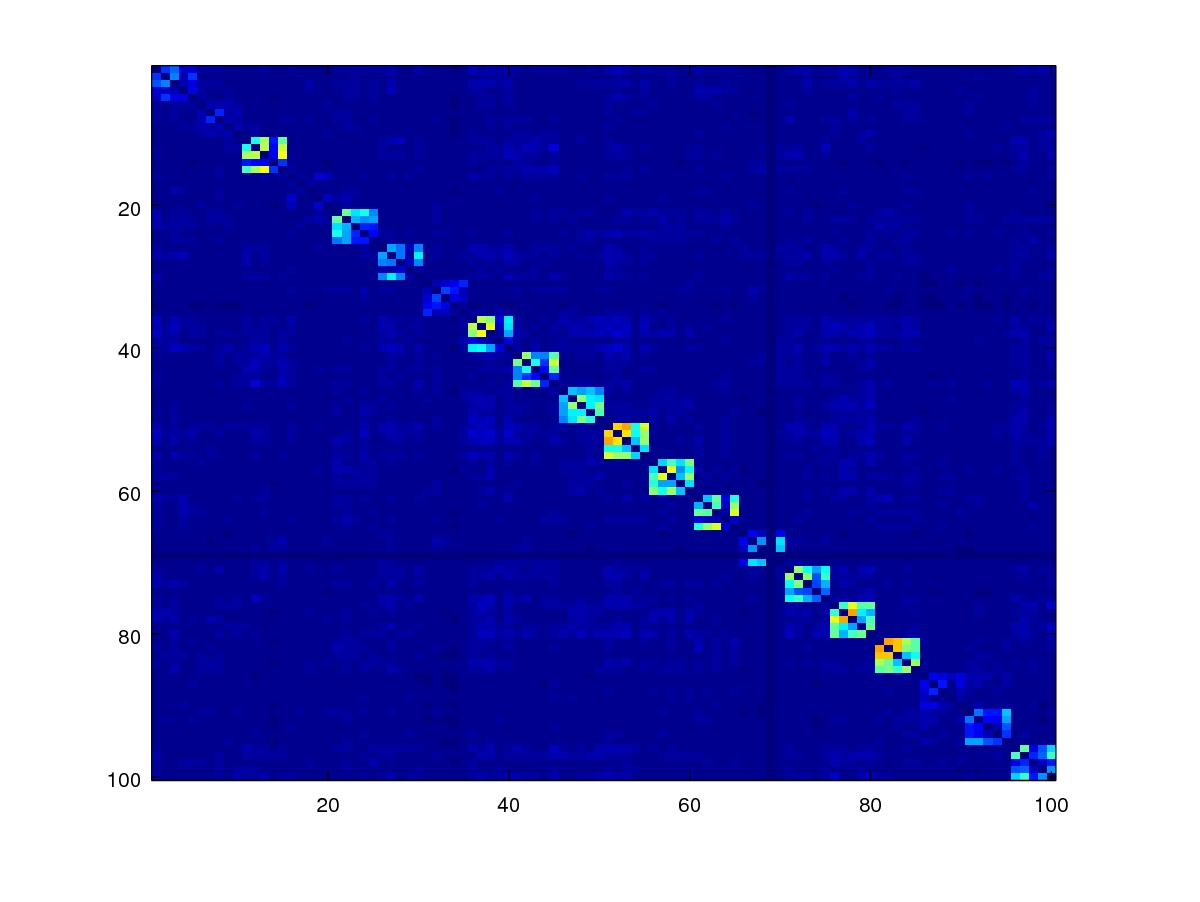
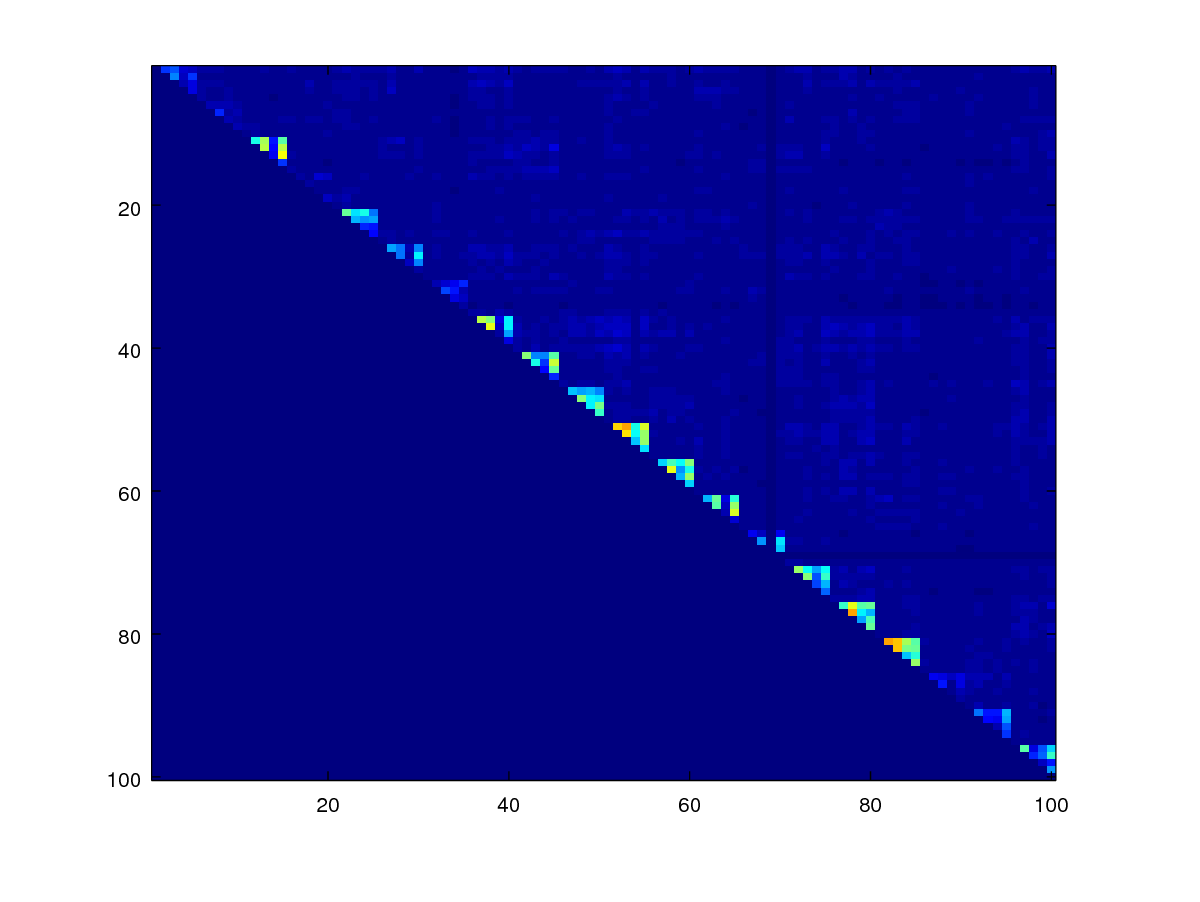
regenerated files on 2018-01-03

diff --git a/blog/2017/12/29/generate-pairwise-fprint-scores.html b/blog/2017/12/29/generate-pairwise-fprint-scores.html
@@ -153,13 +153,16 @@
 <ul>
   <li>a fingerprint database. Download the <a href="http://livdet.org">LivDET 2011 database</a>.</li>
   <li>the <a href="https://www.nist.gov/services-resources/software/nist-biometric-image-software-nbis">NIST Biometric Image Software (NBIS)</a></li>
-  <li>In my setup, I have a host Windows machine and run Ubuntu 16.04 using VMWare. If you use this setup, you should read <a href="/blog/2017/12/29/vmware-tools-update.html">my previous post</a> which sets up the environment correctly.</li>
+  <li>In my setup, I have a host Windows machine and run Ubuntu 16.04 using VMWare. If you use this setup, you should read <a href="/blog/2017/12/29/vmware-tools-update.html">my previous post</a> which sets up the environment correctly. You can, of course, use VirtualBox to achieve the same result; or even mix the two, e.g., create VMWare image and then run it in VirtualBox.</li>
   <li>For performance, you should get the git clone the <code>wer</code> function using <code>git clone git@gitlab.com:normanpoh/DETconf_octave.git</code> or else visit <a href="https://gitlab.com/normanpoh/DETconf_octave">this link</a>.</li>
 </ul>
 
 <p>Once you have fulfilled the above requirements, you can then follow the instructions set out below.</p>
 
 <p>I will be using a combination of bash and Octave scripts in order to plot the performance curves. Once you understand how this works, you can, of course, use different biometric software and modalities.</p>
+
+<h3 id="intended-audience">Intended audience</h3>
+<p>I have written this tutorial for researchers who are interested to start working in biometrics but are not fully confident with using <code>bash</code> and <code>Octave</code> or <code>Matlab</code>. With this in mind, every step has been carefully written so that they can follow, whilst learning the strengths or features that the scripts can offer.</p>
 
 <h3 id="procedure">Procedure</h3>
 <p>We shall use a publicly available fingerprint database to illustrate how you can use NIST’s fingerprint matching <code>bozorth3</code> to generate an exhaustive pair-wise comparison score matrix.</p>
@@ -175,14 +178,23 @@
 
 <figure class="highlight"><pre><code class="language-bash" data-lang="bash"><span class="c1"># In bash:</span>
 
-<span class="c1"># Set the input file directory where all the fingerprint images are stored</span>
+<span class="c1"># Set the input file directory where all the fingerprint images in .png format are stored. In my case, they are stored in; yours will certainly be different</span>
 <span class="nv">fdir</span><span class="o">=</span>/mnt/hgfs/C/Users/np0004/Documents/LivDET/data/2011/TrainingItaldataLive
 
 <span class="c1"># Set the output directory where features are stored</span>
-<span class="nv">outdir</span><span class="o">=</span>features</code></pre></figure>
+<span class="nv">outdir</span><span class="o">=</span>features
+
+<span class="c1"># Set the file list variable</span>
+<span class="nv">flist</span><span class="o">=</span>filelist.txt
+
+<span class="c1"># List all the files and store them in $file</span>
+ls <span class="nv">$fd</span>ir &gt; filelist.txt <span class="c1">#List all the files</span>
+
+<span class="c1"># Create the output directory</span>
+mkdir $outdir</code></pre></figure>
 
 <h5 id="extract-the-features">2.Extract the features</h5>
-<p>To extract the features, below I assume that the fingerprint images are stored in <code>.png</code> format; so the command <code>convert</code> is used.</p>
+<p>To extract the features, below I assume that the fingerprint images are stored in <code>.png</code> format; so the command <code>convert</code> is used to convert the images to <code>.wsq</code>. The code below simply loops through all the files and extract the fingerprint features using NIST’s <code>mindtct</code> program.</p>
 
 <figure class="highlight"><pre><code class="language-bash" data-lang="bash"><span class="c1"># In bash:</span>
 <span class="nv">c</span><span class="o">=</span>0
@@ -196,7 +208,7 @@
   mindtct out.wsq $outdir/<span class="nv">$f</span>name
 <span class="k">done</span></code></pre></figure>
 
-<p>All the features are now can be found in the directory <code>$outdir</code> (i.e., <code>features</code> in the example above).</p>
+<p>All the features can now be found in the directory <code>$outdir</code> (i.e., <code>features</code> in the example above).</p>
 
 <p>To check the output, type <code>ls features/*.xyt | head</code>. The database contains <code>&lt;user-id&gt;_&lt;attempt-id&gt;.png</code>; so the processed output contains <code>&lt;finger-id&gt;_&lt;attempt-id&gt;.xyt</code>. There are 200 unique fingers and for each finger, there are 5 attempts; so thare are a total of 1000 fingerprint images.</p>
 
@@ -228,29 +240,37 @@ features/101_5.xyt</code></pre></figure>
 <span class="n">cellfun</span><span class="p">(@(</span><span class="n">x</span><span class="p">)</span> <span class="n">fprintf</span><span class="p">(</span><span class="n">fid</span><span class="p">,</span> <span class="s">&#39;%s\n&#39;</span><span class="p">,</span> <span class="n">x</span><span class="p">),</span> <span class="n">fname</span><span class="p">);</span>
 <span class="n">fclose</span><span class="p">(</span><span class="n">fid</span><span class="p">);</span></code></pre></figure>
 
-<p>Let’s write two functions to get the user and session indices, respectively.</p>
+<p>Let’s write two functions to get the user and session indices, respectively. These 2 pieces of information are often needed in order to extract genuine and impostor scores as will become clear later.</p>
+
+<p>In order to extract the information, I have chosen to achieve this by processing the filenames in order to illustrate how you can use text processing in Octave. In practice, you should modify the scripts to suite your needs.</p>
+
+<p>Recall that each role in the <code>filelist_xyt.txt</code> has the following format: <code>features/</code><user-id>`_`<attempt-id>`.xyt`, e.g., `features/100_1.xyt` so to extract the user (unique finger) id, we split the string into two parts by '/' to get the second part `100_1.xyt` and then furtther split this string by `_` to get to the first part of the string, i.e., `100`.</attempt-id></user-id></p>
 
 <figure class="highlight"><pre><code class="language-matlab" data-lang="matlab"><span class="c">%% Let&#39;s process the user</span>
 <span class="k">function</span><span class="w"> </span>out <span class="p">=</span><span class="w"> </span><span class="nf">get_user</span><span class="p">(</span>x<span class="p">)</span><span class="w"></span>
 <span class="w">  </span><span class="n">out_</span> <span class="p">=</span> <span class="n">strsplit</span><span class="p">(</span><span class="n">x</span><span class="p">,</span> <span class="s">&#39;/&#39;</span><span class="p">);</span>
   <span class="n">out_</span> <span class="p">=</span> <span class="n">strsplit</span><span class="p">(</span><span class="n">out_</span><span class="p">{</span><span class="mi">2</span><span class="p">},</span> <span class="s">&#39;_&#39;</span><span class="p">);</span>
   <span class="n">out</span> <span class="p">=</span> <span class="n">str2double</span><span class="p">(</span><span class="n">out_</span><span class="p">{</span><span class="mi">1</span><span class="p">});</span>
-<span class="n">endfunction</span>
+<span class="n">endfunction</span></code></pre></figure>
 
+<p>Using the same methodology, we create the <code>get_session</code> function.</p>
 
-<span class="k">function</span><span class="w"> </span>out <span class="p">=</span><span class="w"> </span><span class="nf">get_session</span><span class="p">(</span>x<span class="p">)</span><span class="w"></span>
+<figure class="highlight"><pre><code class="language-matlab" data-lang="matlab"><span class="k">function</span><span class="w"> </span>out <span class="p">=</span><span class="w"> </span><span class="nf">get_session</span><span class="p">(</span>x<span class="p">)</span><span class="w"></span>
 <span class="w">  </span><span class="n">out_</span> <span class="p">=</span> <span class="n">strsplit</span><span class="p">(</span><span class="n">x</span><span class="p">,</span> <span class="s">&#39;/&#39;</span><span class="p">);</span>
   <span class="n">out_</span> <span class="p">=</span> <span class="n">strsplit</span><span class="p">(</span><span class="n">out_</span><span class="p">{</span><span class="mi">2</span><span class="p">},</span> <span class="s">&#39;_&#39;</span><span class="p">);</span>
+  <span class="n">out_</span> <span class="p">=</span> <span class="n">strsplit</span><span class="p">(</span><span class="n">out_</span><span class="p">{</span><span class="mi">2</span><span class="p">},</span> <span class="s">&#39;.&#39;</span><span class="p">);</span>
   <span class="n">out</span> <span class="p">=</span> <span class="n">str2double</span><span class="p">(</span><span class="n">out_</span><span class="p">{</span><span class="mi">2</span><span class="p">});</span>
-<span class="n">endfunction</span>
+<span class="n">endfunction</span></code></pre></figure>
 
-<span class="c">% Try this</span>
-<span class="k">for</span> <span class="nb">i</span><span class="p">=</span><span class="mi">1</span><span class="p">:</span><span class="nb">numel</span><span class="p">(</span><span class="n">fname</span><span class="p">)</span>
+<p>Here’s how you apply the function.</p>
+
+<figure class="highlight"><pre><code class="language-matlab" data-lang="matlab"><span class="k">for</span> <span class="nb">i</span><span class="p">=</span><span class="mi">1</span><span class="p">:</span><span class="nb">numel</span><span class="p">(</span><span class="n">fname</span><span class="p">)</span>
   <span class="n">user</span><span class="p">(</span><span class="nb">i</span><span class="p">)</span> <span class="p">=</span> <span class="n">get_user</span><span class="p">(</span><span class="n">fname</span><span class="p">{</span><span class="nb">i</span><span class="p">})</span>
-<span class="k">end</span>
+<span class="k">end</span></code></pre></figure>
 
-<span class="c">%or use cellfun to do the same</span>
-<span class="n">user</span> <span class="p">=</span> <span class="n">cellfun</span><span class="p">(</span> <span class="p">@(</span><span class="n">x</span><span class="p">)</span> <span class="n">get_user</span><span class="p">(</span><span class="n">x</span><span class="p">),</span> <span class="n">fname</span><span class="p">,</span> &quot;<span class="n">UniformOutput</span>&quot;<span class="p">,</span> <span class="n">true</span><span class="p">);</span>
+<p>Writing the <code>for</code> loop is not usually a very efficient way of doing this. Since the variable fname is a <code>cell</code> type, we can use the <code>cellfun</code> and then further define an <em>annonymous function</em> applied to each cell. In our case, this function is <code>@(x) get_user(x)</code> which reads, <code>apply each cell </code>x<code> using the function </code>get_user`’.</p>
+
+<figure class="highlight"><pre><code class="language-matlab" data-lang="matlab"><span class="n">user</span> <span class="p">=</span> <span class="n">cellfun</span><span class="p">(</span> <span class="p">@(</span><span class="n">x</span><span class="p">)</span> <span class="n">get_user</span><span class="p">(</span><span class="n">x</span><span class="p">),</span> <span class="n">fname</span><span class="p">,</span> &quot;<span class="n">UniformOutput</span>&quot;<span class="p">,</span> <span class="n">true</span><span class="p">);</span>
 <span class="n">session</span> <span class="p">=</span> <span class="n">cellfun</span><span class="p">(</span> <span class="p">@(</span><span class="n">x</span><span class="p">)</span> <span class="n">get_session</span><span class="p">(</span><span class="n">x</span><span class="p">),</span> <span class="n">fname</span><span class="p">,</span> &quot;<span class="n">UniformOutput</span>&quot;<span class="p">,</span> <span class="n">true</span><span class="p">);</span></code></pre></figure>
 
 <p>The variable <code>user</code> will be used later to distinguish between genuine and impostor scores.</p>
@@ -294,15 +314,17 @@ features/101_5.xyt</code></pre></figure>
 
 <p><img src="/assets/2017-12-29-generate--pairwise-fprint-scores/matrix_scores1.png" alt="wer" style="width: 100%;" /></p>
 
-<p>These scores are not symmetrical but really they should since comparing samples A and B should be the same as comparing B and A. In minutia-based fingerprint matching, this is not true but can be enforced using the codes below.</p>
+<p>Minutiae-based similarity scores are <strong>not symmetrical</strong> but really they should since comparing samples A and B should be the same as comparing B and A. To enforece this property, we can use codes below, which take the upper triangular matrix of the scores and add it to the <strong>transposed version</strong> of the lower triangular matrix, and then take the average of the two.</p>
 
-<figure class="highlight"><pre><code class="language-matlab" data-lang="matlab"><span class="n">scores_sym</span> <span class="p">=</span> <span class="mf">0.5</span> <span class="o">*</span> <span class="p">(</span><span class="nb">triu</span><span class="p">(</span><span class="n">scores1</span><span class="p">)</span> <span class="o">+</span> <span class="nb">triu</span><span class="p">(</span><span class="n">scores1</span><span class="p">));</span>
+<figure class="highlight"><pre><code class="language-matlab" data-lang="matlab"><span class="n">scores_sym</span> <span class="p">=</span> <span class="mf">0.5</span> <span class="o">*</span> <span class="p">(</span><span class="nb">triu</span><span class="p">(</span><span class="n">scores1</span><span class="p">)</span> <span class="o">+</span> <span class="nb">tril</span><span class="p">(</span><span class="n">scores1</span><span class="p">)</span><span class="o">&#39;</span><span class="p">);</span> 
 
 <span class="c">% now display</span>
 <span class="n">imagesc</span><span class="p">(</span><span class="n">scores_sym</span><span class="p">)</span>
 <span class="n">axis</span><span class="p">([</span><span class="mf">0.5</span> <span class="mf">100.5</span> <span class="mf">0.5</span> <span class="mf">100.5</span><span class="p">]);</span></code></pre></figure>
 
 <p><img src="/assets/2017-12-29-generate--pairwise-fprint-scores/matrix_scores_sym.png" alt="wer" style="width: 100%;" /></p>
+
+<p>Because of the above matrix operations (<code>triu</code> and <code>tril</code>), the lower triangular matrix has zero values everywhere.</p>
 
 <p>We can create a function <code>get_symmetric_scores</code> to do this.</p>
 
@@ -347,9 +369,6 @@ features/101_5.xyt</code></pre></figure>
 <span class="n">imagesc</span><span class="p">(</span><span class="n">mask_imp</span> <span class="o">.*</span> <span class="n">scores_sym</span><span class="p">)</span>
 
 <span class="c">%% get the scores</span>
-
-
-
 <span class="n">imp_scores</span> <span class="p">=</span> <span class="n">scores_sym</span><span class="p">(</span><span class="n">mask_imp</span><span class="o">==</span><span class="mi">1</span><span class="p">);</span>
 <span class="n">gen_scores</span> <span class="p">=</span> <span class="n">scores_sym</span><span class="p">(</span><span class="n">mask_gen</span><span class="o">==</span><span class="mi">1</span><span class="p">);</span></code></pre></figure>
 
@@ -383,6 +402,8 @@ features/101_5.xyt</code></pre></figure>
   <span class="n">gen_scores</span> <span class="p">=</span> <span class="n">scores</span><span class="p">(</span><span class="n">mask_gen</span><span class="o">==</span><span class="mi">1</span><span class="p">);</span>
 
 <span class="n">endfunction</span></code></pre></figure>
+
+<p>In the above code, <code>scores(mask_imp==1)</code> selects the elements in the score matrix where the <code>mask_imp</code> is true. This conveniently returns a column vector of impostor scores which is the formwat we need. Recall that <code>scores</code> is a score matrix; and not a column vector but by using the subsetting operation <code>scores(mask_imp==1)</code> returns a column vector. So the matrix has been <em>linearlised</em> implicitly.</p>
 
 <p>Having obtained the genuine and impostor score vectors, we can now plot the performance using the <code>wer</code> function, which gives us the equal error rate (EER) of the system.</p>
 
@@ -421,17 +442,20 @@ may result in -Inf due to <script type="math/tex"> \log  ( 0 ) </script>; and th
 <script type="math/tex"> y_{ub}=0 </script> but 
 <script type="math/tex"> y_{ub}=-1 </script>; and so as its uppper bound which is to be set to a sufficiently large number by trial and error.</p>
 
-<p>It is implemented using the function below <code>get_gen_logit</code> below.</p>
+<p>It is implemented using the function below <code>logit_transform</code> function below.</p>
 
-<figure class="highlight"><pre><code class="language-matlab" data-lang="matlab"><span class="k">function</span><span class="w"> </span>output<span class="p">=</span><span class="w"> </span><span class="nf">get_gen_logit</span><span class="p">(</span>scores, max_scores<span class="p">)</span><span class="w"></span>
-<span class="w">  </span><span class="n">output</span> <span class="p">=</span> <span class="nb">log</span><span class="p">(</span><span class="n">scores</span> <span class="o">+</span> <span class="mi">1</span><span class="p">)</span> <span class="o">-</span> <span class="nb">log</span><span class="p">(</span><span class="n">max_scores</span> <span class="o">-</span> <span class="n">scores</span><span class="p">);</span> <span class="c">%we add one to avoid -Inf</span>
+<figure class="highlight"><pre><code class="language-matlab" data-lang="matlab"><span class="k">function</span><span class="w"> </span>output<span class="p">=</span><span class="w"> </span><span class="nf">logit_transform</span><span class="p">(</span>scores, max_scores<span class="p">)</span><span class="w"></span>
+<span class="w">  </span><span class="k">if</span> <span class="n">nargin</span><span class="o">&lt;</span><span class="mi">2</span><span class="p">,</span>
+    <span class="n">max_scores</span><span class="p">=</span><span class="mi">400</span><span class="p">;</span>
+  <span class="k">end</span>
+  <span class="n">output</span> <span class="p">=</span> <span class="nb">log</span><span class="p">(</span><span class="n">scores</span> <span class="o">+</span> <span class="mi">1</span><span class="p">)</span> <span class="o">-</span> <span class="nb">log</span><span class="p">(</span><span class="n">max_scores</span> <span class="o">-</span> <span class="n">scores</span><span class="p">);</span> <span class="c">%we add one to avoid -Inf</span>
 <span class="n">endfunction</span></code></pre></figure>
 
 <p>where <script type="math/tex">  \max(y) </script>
 is the maximum value the fingerprint similarity score $y$. We can set this to be slightly larger than the maximal observable score, which is 400 in this case. We then apply the function to the genine and impostor scores and then replot the performance curves using <code>wer</code>.</p>
 
-<figure class="highlight"><pre><code class="language-matlab" data-lang="matlab"><span class="n">imp_logit</span> <span class="p">=</span> <span class="o">-</span> <span class="n">gen_logit</span><span class="p">(</span><span class="n">imp_scores</span><span class="p">,</span> <span class="mi">400</span><span class="p">);</span>
-<span class="n">gen_logit</span> <span class="p">=</span> <span class="o">-</span> <span class="n">gen_logit</span><span class="p">(</span><span class="n">gen_scores</span><span class="p">,</span> <span class="mi">400</span><span class="p">);</span>
+<figure class="highlight"><pre><code class="language-matlab" data-lang="matlab"><span class="n">imp_logit</span> <span class="p">=</span> <span class="o">-</span> <span class="n">logit_transform</span><span class="p">(</span><span class="n">imp_scores</span><span class="p">,</span> <span class="mi">400</span><span class="p">);</span>
+<span class="n">gen_logit</span> <span class="p">=</span> <span class="o">-</span> <span class="n">logit_transform</span><span class="p">(</span><span class="n">gen_scores</span><span class="p">,</span> <span class="mi">400</span><span class="p">);</span>
 
 <span class="n">tic</span><span class="p">;</span>
 <span class="n">eer</span> <span class="p">=</span> <span class="n">wer</span><span class="p">(</span><span class="n">imp_logit</span><span class="p">,</span> <span class="n">gen_logit</span><span class="p">,[],</span><span class="mi">1</span><span class="p">);</span>
@@ -442,14 +466,20 @@ is the maximum value the fingerprint similarity score $y$. We can set this to be
 
 <p><img src="/assets/2017-12-29-generate--pairwise-fprint-scores/wer2_logit.png" alt="wer" style="width: 100%;" /></p>
 
-<p>As can be observed the score distributions look a lot more sensible but the performance should remains the same.</p>
+<p>As can be observed the score distributions look a lot more sensible but the performance should remains the same. Why? Because the generalised logit transform operator is a one-to-one order-preserving transformation, i.e., the orders of the scores before and after the transformation does not change.</p>
+
+<h3 id="summary-and-where-do-you-go-from-here">Summary and where do you go from here</h3>
 
 <p>In short, this tutorial shows you how to work with NIST’s <code>bozorth3</code> software to generate scores which you can then analyse using the <code>wer</code> function in order to plot the system performance.</p>
 
-<p>In the next tutorial, I will show you how to optimize the system performance by adjusting the fingerprint minutia quality. The DET curve below shows the performance gain we could obtain if we retain only the minutiae with sufficiently high quality.</p>
+<p>In the <a href="/blog/2017/12/29/optimize-fprint-minutiae-quality.html">next tutorial</a>, I will show you how to optimize the system performance by adjusting the fingerprint minutia quality. The DET curve below shows the performance gain we could obtain if we retain only the minutiae with sufficiently high quality.</p>
 
 <p><img src="/assets/2017-12-29-generate--pairwise-fprint-scores/wer_quality_optimised.png" alt="wer" style="width: 100%;" /></p>
 
+<p>In addition, on reflection, you may have noticed that we have used all samples in a database to generate the genuine and impostor scores. So, if there are 
+<script type="math/tex"> J </script> users and each has
+<script type="math/tex"> S </script> samples, then a total of 
+<script type="math/tex"> \frac 1 2 JS(JS-1) </script> matching is needed (ignoring the symmetrised score operation). If we deal with millions of users, this can not only be prohibitive large, but also that the proportion of impostor scores relatively to the genuine scores becomes very disporportionate. You may also be interested in an <a href="/blog/2017/12/31/alternative-biometric-protocol.html">alternative biometric experimental protocol</a> that can deal with this situation.</p>
 
 </div>
 
